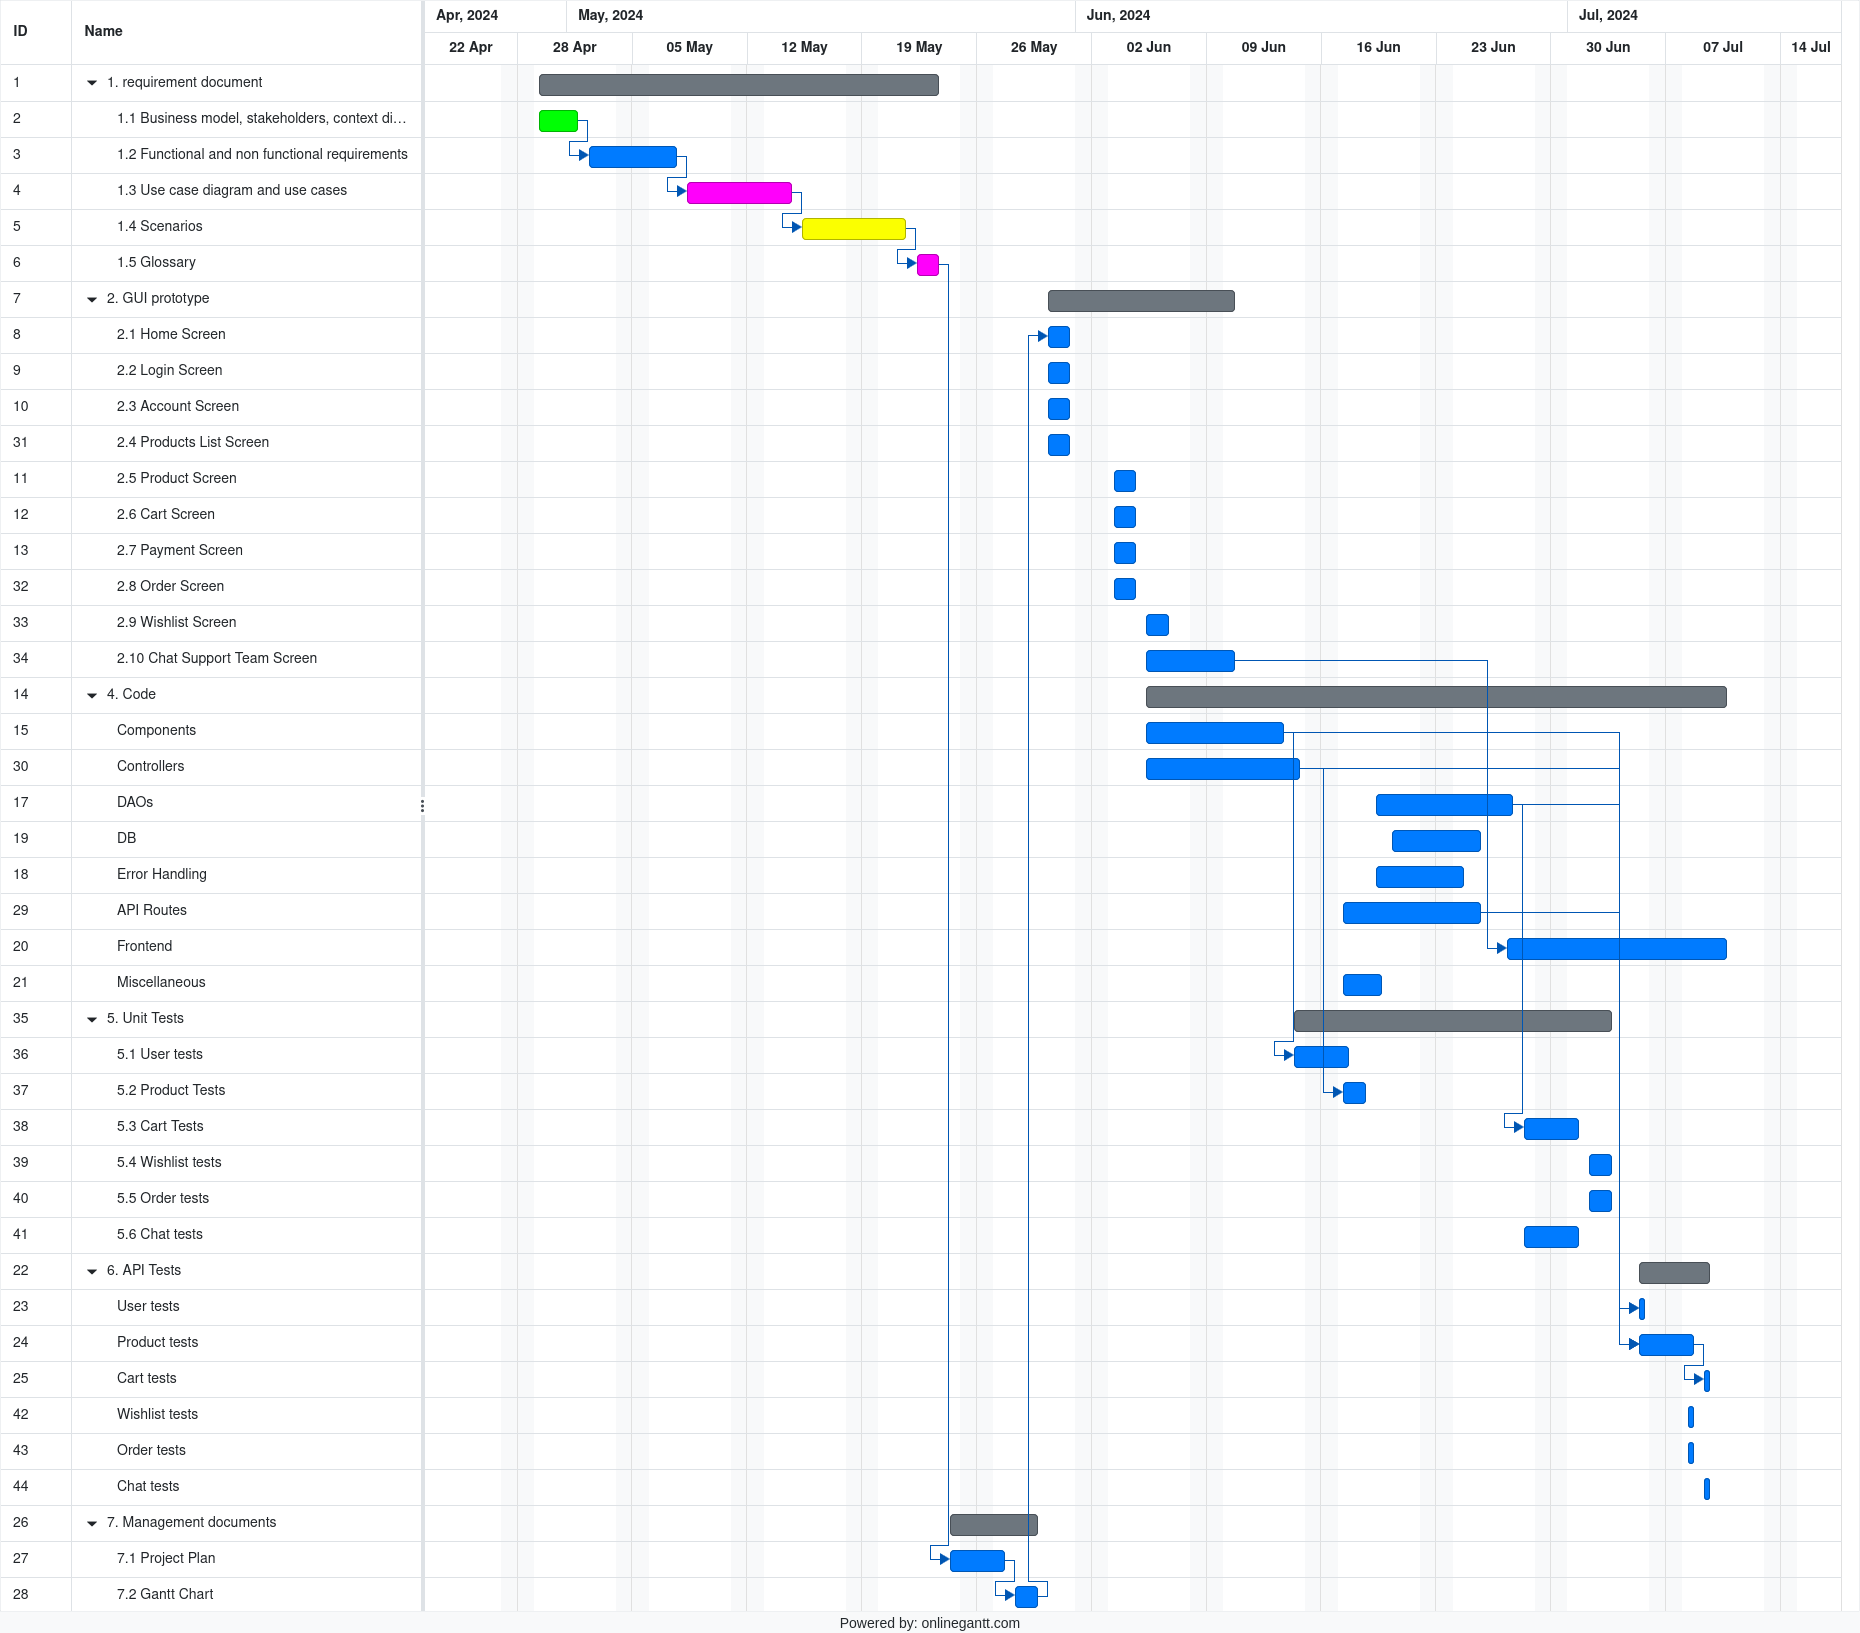
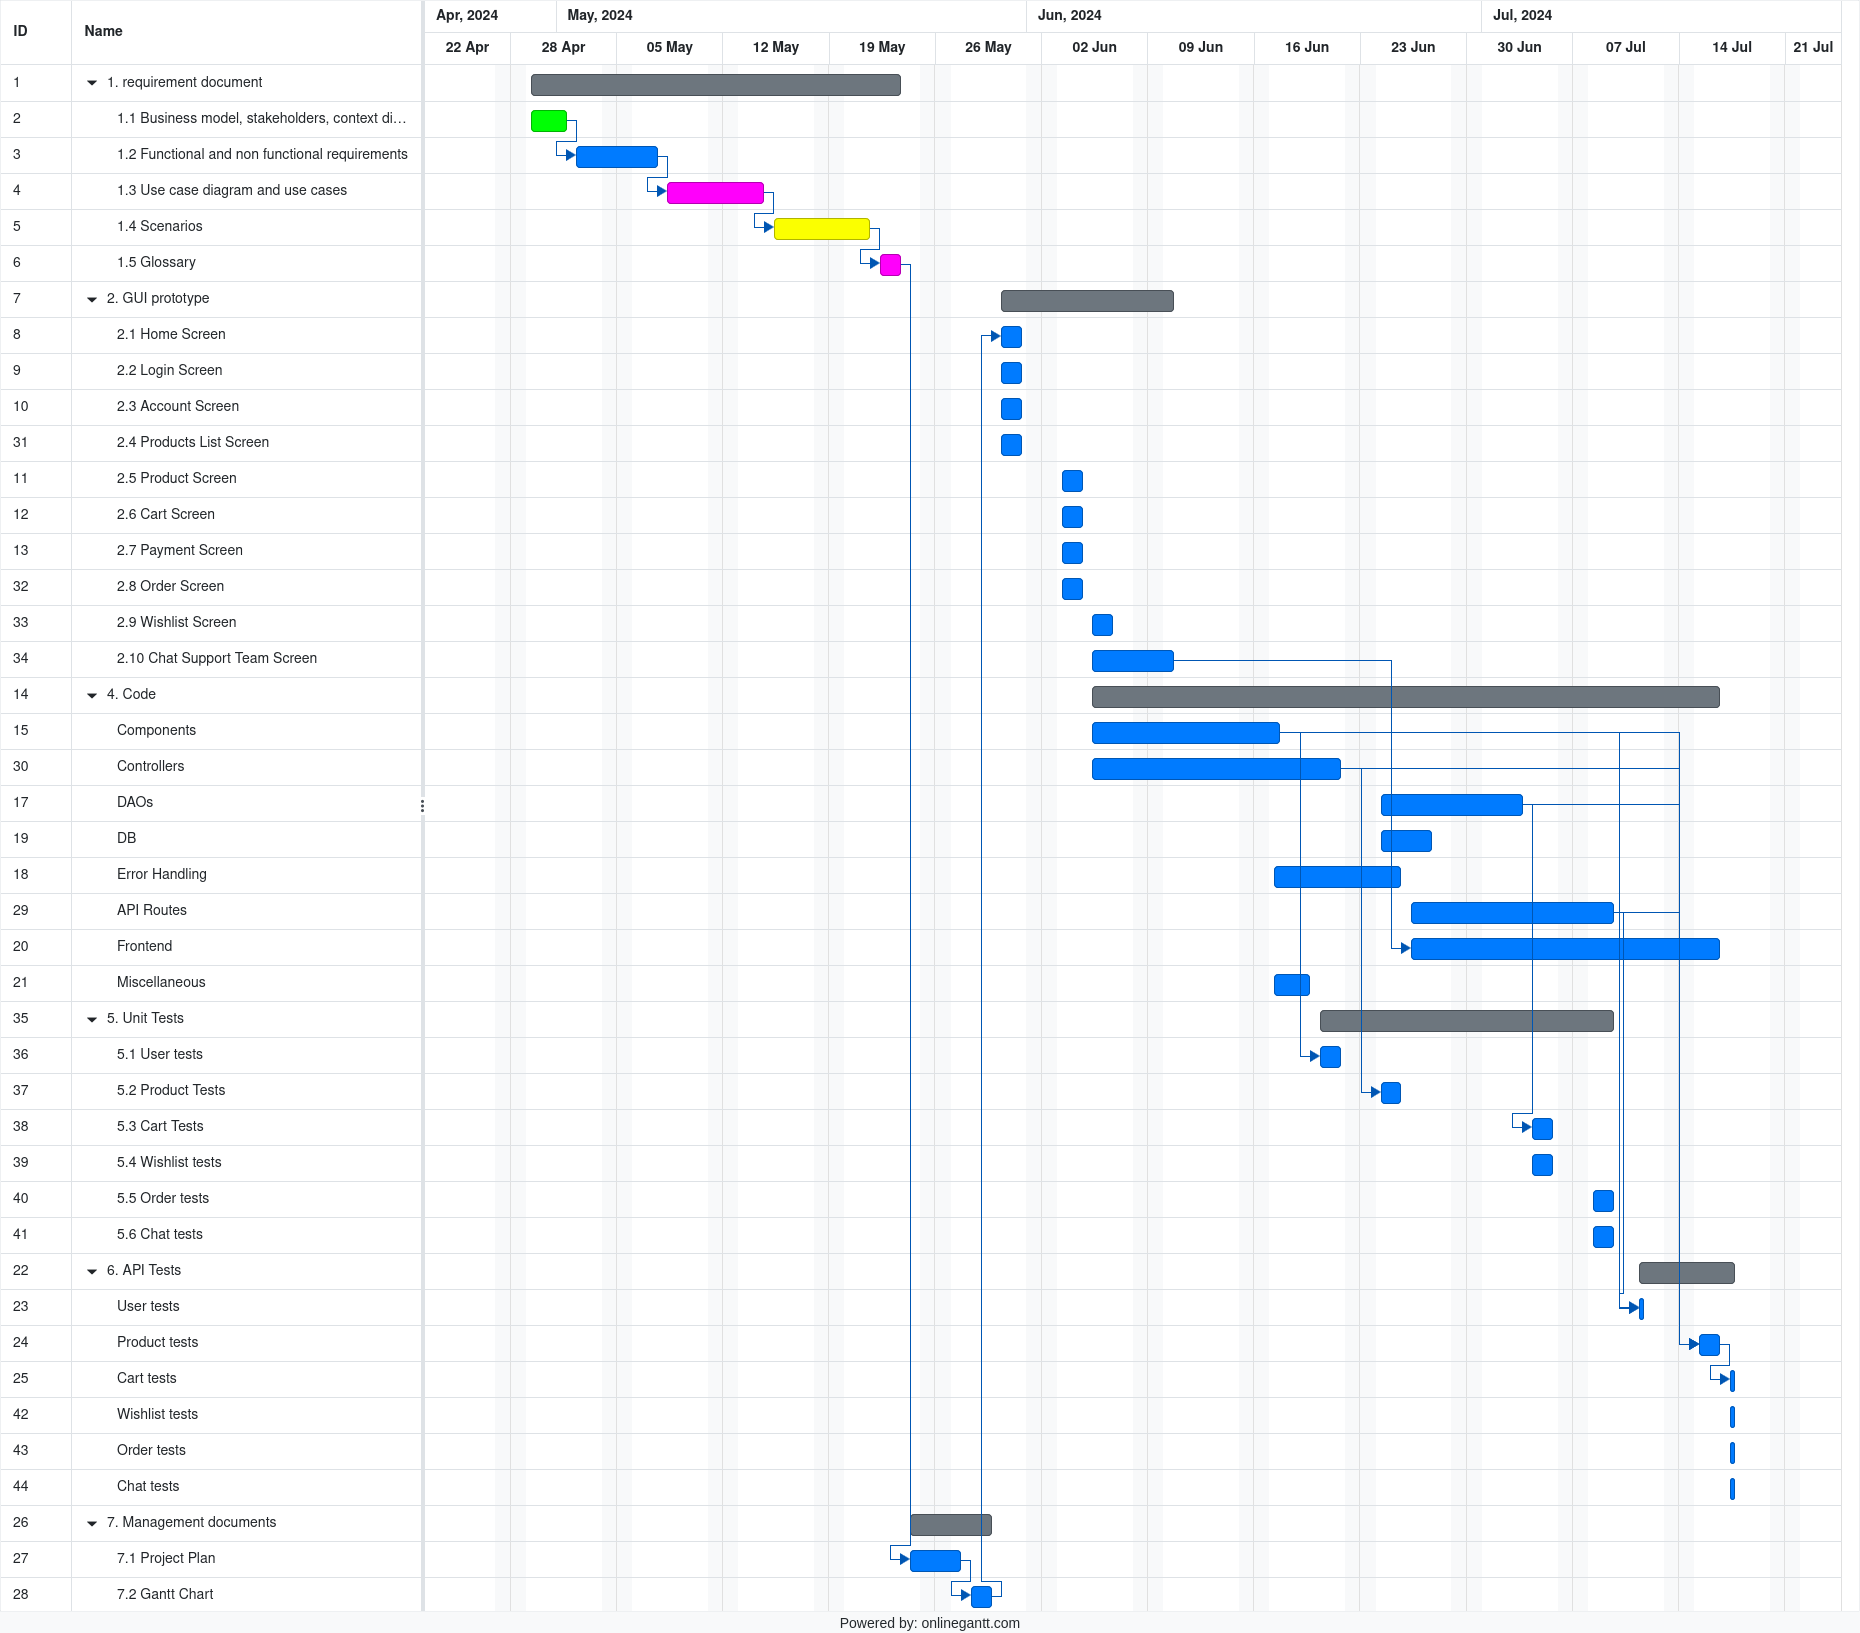
docs: fix errors

diff --git a/RequirementsDocumentV2.md b/RequirementsDocumentV2.md
@@ -85,7 +85,8 @@ Version: V2 - description of EZElectronics in FUTURE form (as proposed by the te
 
 # Informal description
 
-EZElectronics (read EaSy Electronics) is a software application designed to help managers of electronics stores to manage their products and offer them to customers through a dedicated website. Managers can assess the available products, record new ones, and confirm purchases. Customers can see available products, add them to a cart and see the history of their past purchases.
+EZElectronics (read EaSy Electronics) is a software application designed to help managers of electronics stores to manage their products and offer them to customers through a dedicated website. Managers can assess the available products, record new ones, and confirm purchases. Customers and Managers can see available products, add them to a cart, pay for them and see the history of their past purchases. The platform is also equipped with a support service that can be contacted via chat, email or VoIP. The platform is also equipped with an analytics service that allows managers to analyze the sales and the most searched products.
+Every product has its own rating and reviews that can be added by customers. The platform is also equipped with a wishlist that allows customers to save products they are interested in.
 
 # Stakeholders
 
@@ -225,6 +226,8 @@ IT Administrator: Giovanni: He is the one in charge of the server and database m
 | NFR9    | Security                           | Password should be encrypted in the database | database |
 | NFR10   | Security                           | The platform should be able to handle DDoS attacks | server |
 | NFR11   | Security                           | The platform should be able to handle SQL injection attacks | server/database |
+| NFR12   | Security                           | HTTPS should be used for all the communications | server |
+| NFR13  | Usability | The user must be able to learn how to use the platform in less than 30 minutes | GUI |
 
 # Use case diagram and use cases
 
@@ -236,15 +239,15 @@ IT Administrator: Giovanni: He is the one in charge of the server and database m
 |:-----:|:-----: |:-----:|
 |UC1|Authenticate| Users |
 |UC2|Create Account| Users|
-|UC3|Manage Account| Users, Support team, Developer, IT administrator|
-|UC4|Manage Cart| Users, Support team, Developer, IT administrator|
+|UC3|Manage Account| Users, Support team, IT administrator|
+|UC4|Manage Cart| Users, Support team, IT administrator|
 |UC5|Pay Current Cart| Users|
-|UC6|Show Products| Users, Support team, Developer, IT administrator|
-|UC7|Manage Products| Manager Users, Support team, Developer, IT administrator|
-|UC8|Manage Wishlist| Users, Analytics team, Support team, Developer, IT administrator|
-|UC9|Manage Reviews| Users, Analytics team, Support team, Developer, IT administrator|
-|UC10|Manage Orders| Users, Support team, Developer, IT administrator|
-|UC11|Manage Visibility| Manager Users, Analytics team, Support team, Developer, IT administrator|
+|UC6|Show Products| Users, Support team, IT administrator|
+|UC7|Manage Products| Manager Users, Support team, IT administrator|
+|UC8|Manage Wishlist| Users, Analytics team, Support team, IT administrator|
+|UC9|Manage Reviews| Users, Analytics team, Support team, IT administrator|
+|UC10|Manage Orders| Users, Support team, IT administrator|
+|UC11|Manage Visibility| Manager Users, Analytics team, Support team, IT administrator|
 |UC12|Contact Support team|Users|
 
 ### Use case 1, UC1
@@ -352,7 +355,7 @@ IT Administrator: Giovanni: He is the one in charge of the server and database m
 
 ### Use case 3, UC3
 
-| Actors Involved  |  User, Support team, Developer, IT administrator  |
+| Actors Involved  |  User, Support team, IT administrator  |
 | :--------------: | :------------------------------------------------------------------:                 |
 |   Precondition   | User is authenticated |
 |  Post condition  | User has managed an account |
@@ -372,7 +375,7 @@ IT Administrator: Giovanni: He is the one in charge of the server and database m
 
 ### Use case 4, UC4
 
-| Actors Involved  |  User, Support team, Developer, IT administrator  |
+| Actors Involved  |  User, Support team, IT administrator  |
 | :--------------: | :------------------------------------------------------------------:                 |
 |   Precondition   | User is logged in |
 |  Post condition  | User has managed the cart |
@@ -490,7 +493,7 @@ IT Administrator: Giovanni: He is the one in charge of the server and database m
 
 ### Use case 6, UC6
 
-| Actors Involved  |  User, Support team, Developer, IT administrator  |
+| Actors Involved  |  User, Support team, IT administrator  |
 | :--------------: | :------------------------------------------------------------------:                 |
 |   Precondition   | - |
 |  Post condition  | User has seen the products |
@@ -556,7 +559,7 @@ IT Administrator: Giovanni: He is the one in charge of the server and database m
 
 ### Use case 7, UC7
 
-| Actors Involved  |  Manager User, Support team, Developer, IT administrator  |
+| Actors Involved  |  Manager User, Support team, IT administrator  |
 | :--------------: | :------------------------------------------------------------------:                 |
 |   Precondition   | User is logged in as Manager User |
 |  Post condition  | User has managed the products |
@@ -632,7 +635,7 @@ IT Administrator: Giovanni: He is the one in charge of the server and database m
 
 ### Use case 8, UC8
 
-| Actors Involved  |   User, Analytics team, Support team, Developer, IT administrator  |
+| Actors Involved  |   User, Analytics team, Support team, IT administrator  |
 | :--------------: | :------------------------------------------------------------------:                 |
 |   Precondition   | User is logged in |
 |  Post condition  | User has managed the wishlist |
@@ -684,7 +687,7 @@ IT Administrator: Giovanni: He is the one in charge of the server and database m
 
 ### Use case 9, UC9
 
-| Actors Involved  |  Users, Analytics team, Support team, Developer, IT administrator  |
+| Actors Involved  |  Users, Analytics team, Support team, IT administrator  |
 | :--------------: | :------------------------------------------------------------------:                 |
 |   Precondition   | - |
 |  Post condition  | User has managed the review |
@@ -740,7 +743,7 @@ IT Administrator: Giovanni: He is the one in charge of the server and database m
 
 ### Use case 10, UC10
 
-| Actors Involved  |  Users, Analytics team, Support team, Developer, IT administrator  |
+| Actors Involved  |  Users, Analytics team, Support team, IT administrator  |
 | :--------------: | :------------------------------------------------------------------:                 |
 |   Precondition   | User is logged in |
 |  Post condition  | User has managed the orders |
@@ -785,7 +788,7 @@ IT Administrator: Giovanni: He is the one in charge of the server and database m
 
 ### Use case 11, UC11
 
-| Actors Involved  |  Manager User, Analytics team, Support team, Developer, IT administrator  |
+| Actors Involved  |  Manager User, Analytics team, Support team, IT administrator  |
 | :--------------: | :------------------------------------------------------------------:                 |
 |   Precondition   | User is logged in as Manager User |
 |  Post condition  | User has managed the visibility of the products |

diff --git a/RequirementsDocumentV1.md b/RequirementsDocumentV1.md
@@ -90,9 +90,9 @@ EZElectronics (read EaSy Electronics) is a software application designed to help
 | Actor             | Description |
 | :--------------:  | :---------: |
 | Customer user     |  People that want to buy electronics products  |
-| Manager user      |  Electronics products companies that are register in the platform|
-| Payment service   | All method that allow user to pay pruducts in the cart|
-|Developer          | The team in charge of developing the platform|
+| Manager user      |  Electronics products companies that want to sell products in the platform|
+| Payment service   | The actor that allows user to pay products in the cart|
+|Developer        | The team in charge of developing the platform|
 
 ## Interfaces
 
@@ -160,13 +160,11 @@ Payment Service: PayPal: It is the service that allows the customer to pay for t
 | :-----: | :---------------------------------: | :---------: | :-------: |
 |  NFR1   | Usability                          | Website GUI should be able to adapt to both desktop (up to 30in displays) and mobile screens (down to 4in displays) | GUI |
 |  NFR2   | Efficiency                         | All back-end operations should be performed in less that 0.1s | server |
-|  NFR3   | Reliability                        | The platform should be able to perform a backup and restore it every 24h | database |
-| NFR4    | Scalability                        | The platform should be able to handle up to 1000 simultaneous users | server/database |
-| NFR5    | Scalability                        | The platform should be able to handle up to 1000000 simultaneous products | server/database |
-| NFR6    | Maintainability                    | The platform should be able to be updated without stopping the service | server |
-| NFR7    | Availability                       | The platform should be available 99.99% of the time | server |
-| NFR8    | Legal                              | The platform should be compliant with GDPR and EU laws | whole platform |
-| NFR9    | Security                           | Password should be encrypted in the database | database |
+| NFR3    | Scalability                        | The platform should be able to handle up to 1000 simultaneous users | server/database |
+| NFR4    | Scalability                        | The platform should be able to handle up to 1000000 simultaneous products | server/database |
+| NFR5    | Availability                       | The platform should be available 99.99% of the time | server |
+| NFR6    | Legal                              | The platform should be compliant with GDPR and EU laws | whole platform |
+| NFR7    | Security                           | Password should be encrypted in the database | database |
 
 # Use case diagram and use cases
 

diff --git a/EstimationV2.md b/EstimationV2.md
@@ -23,7 +23,7 @@ Consider the EZElectronics project in FUTURE version (as proposed by your team i
 | Requirement document  | 120 |
 | GUI prototype | 120 |
 | Design document | - |
-| Code | 560 |
+| Code | 530 |
 | Unit tests | 80 |
 | Api tests | 40 |
 | Management documents  | 30 |
@@ -89,8 +89,8 @@ Report here the results of the three estimation approaches. The estimates may di
 |             | Estimated effort                        |   Estimated duration |          
 | ----------- | ------------------------------- | ---------------|
 | estimate by size | 900h | 5.6 weeks |
-| estimate by product decomposition | 950h | 6 weeks |
-| estimate by activity decomposition | 950h | 11 weeks |
+| estimate by product decomposition | 920h | 6 weeks |
+| estimate by activity decomposition | 920h | 13 weeks |
 
 The difference between the estimates is due to the level of detail and the **scope of the estimation**.
 
